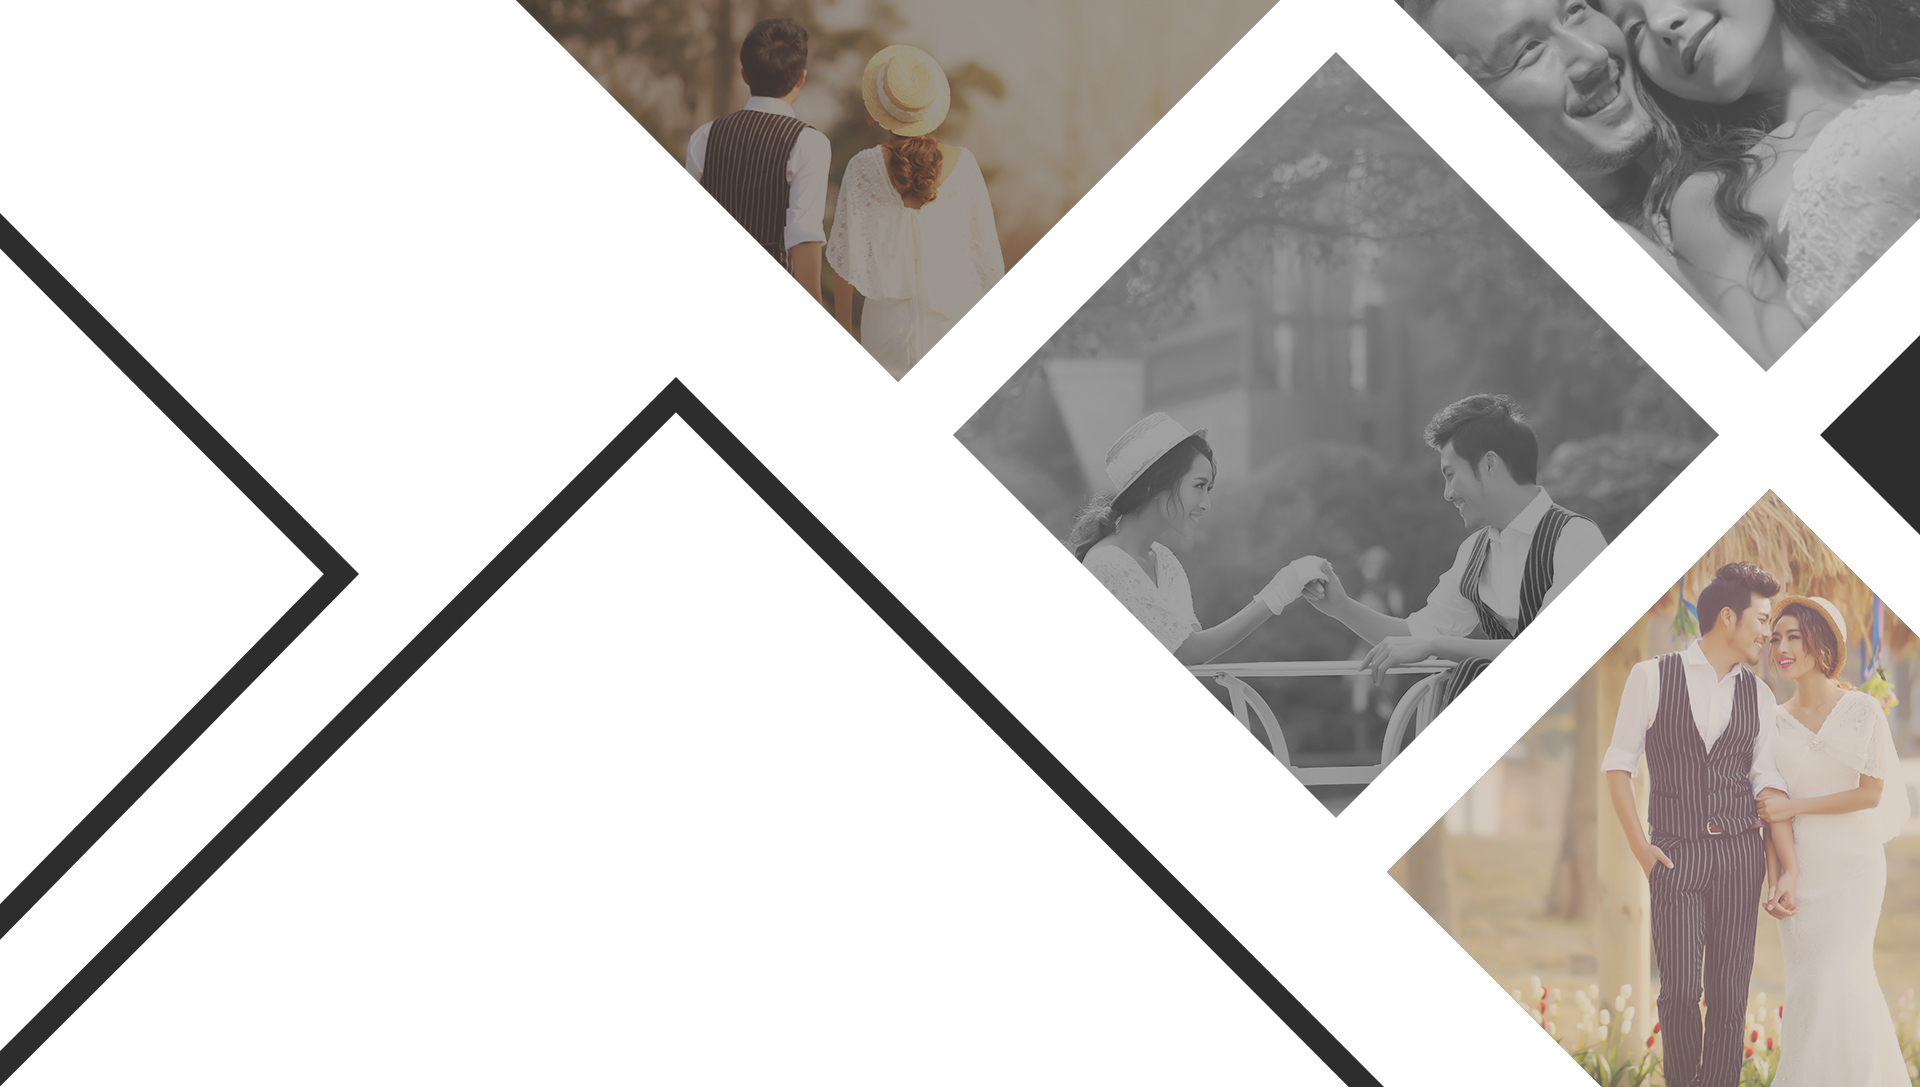
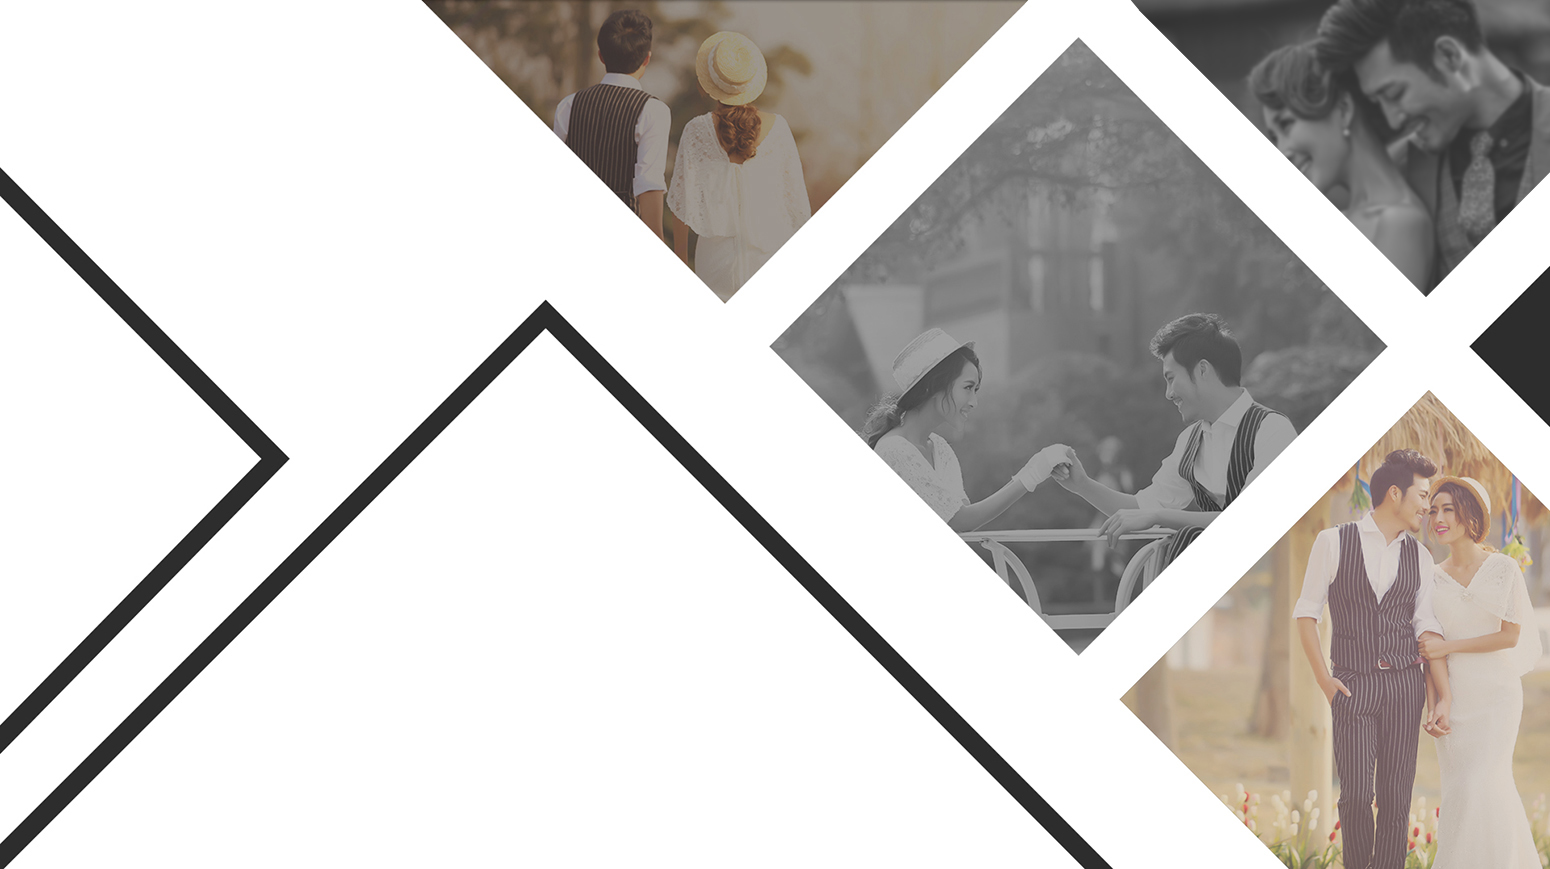
PC端页面图片更新；页面 CSS 样式微调

diff --git a/index.html b/index.html
@@ -311,7 +311,7 @@
 							<div class="form-left"></div>
 							<div class="form-right"></div>
 							<div class="item-left-img">
-								<img src="img/index/service01.jpg" class="img-responsive pull-right">
+								<img src="img/index/service01.png" class="img-responsive pull-right">
 							</div>
 						</div>
 						<div class="right">

diff --git a/css/index.css b/css/index.css
@@ -1044,8 +1044,8 @@ input:-webkit-autofill {
 	-o-transform: scale(.95);
 	transform: scale(.95);
 	position: absolute;
-	bottom: -9px;
-	right: -13px;
+	bottom: -16px;
+	right: -16px;
 	transition: all .3s;
 }
 
